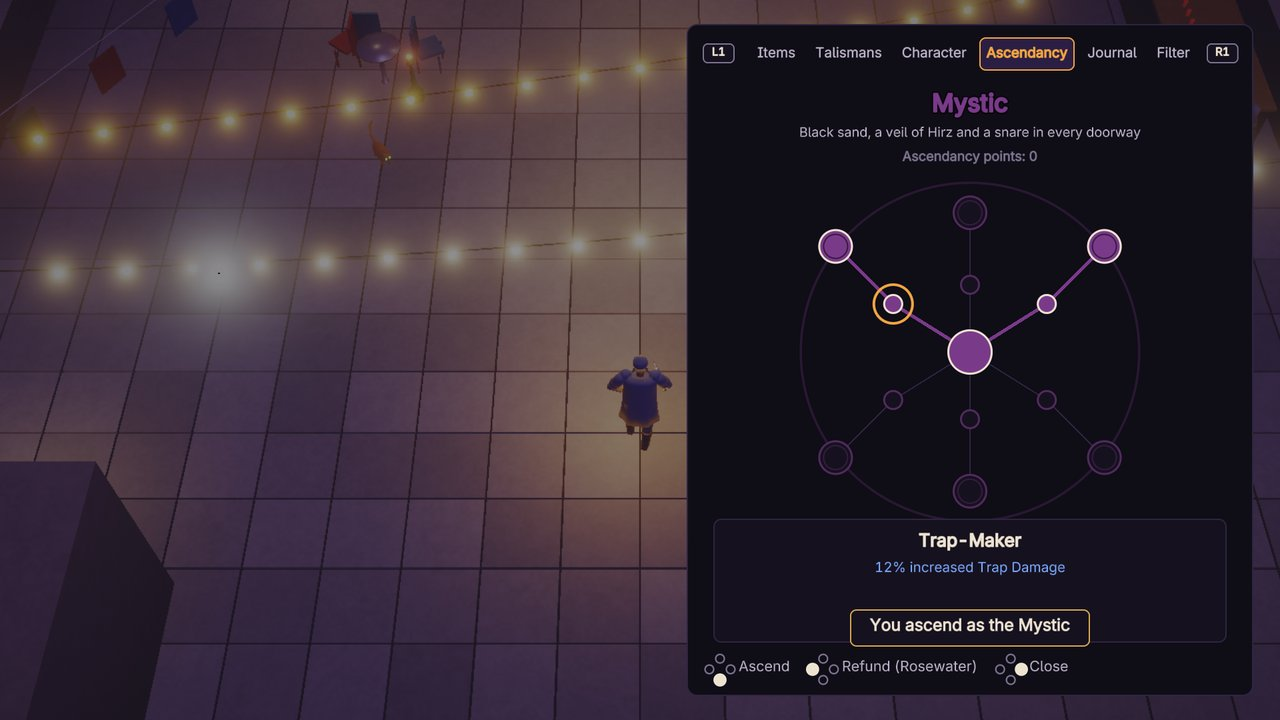
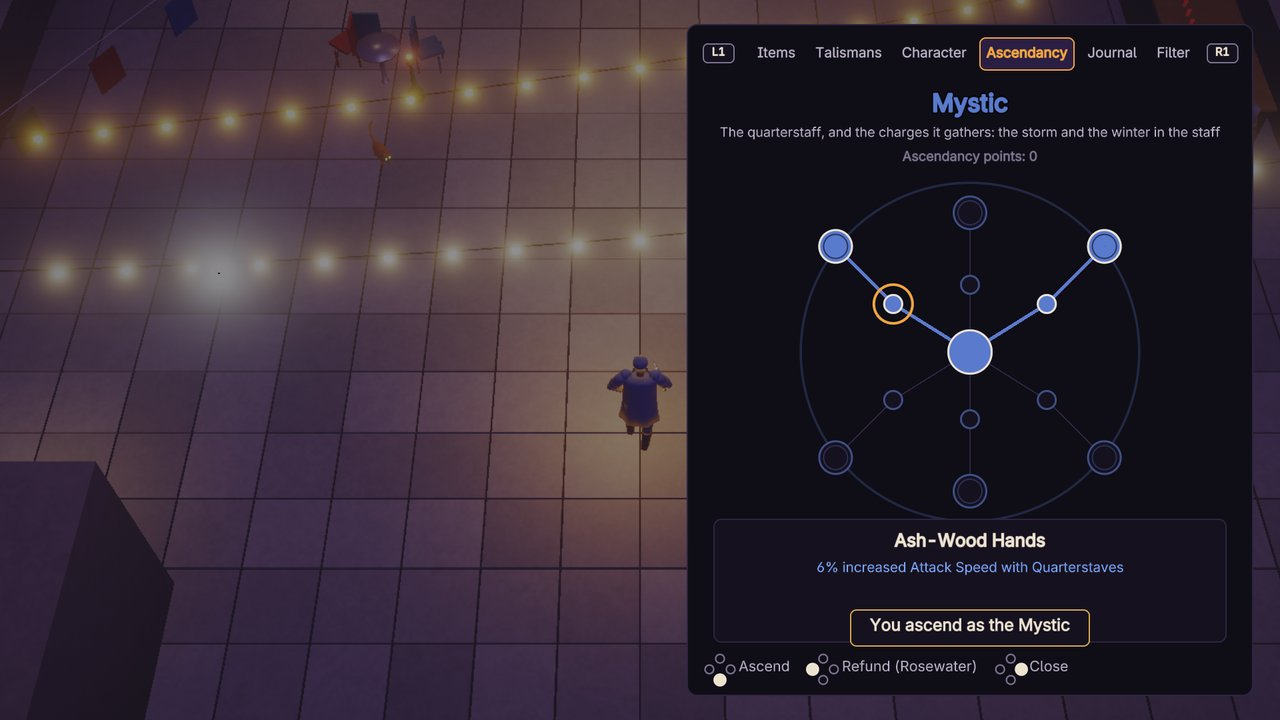
The Mystic is the quarterstaff's ascendancy, as the GDD has it
GDD §4 makes the Mystic the quarterstaff with lightning and cold charges,
and leaves traps to the Trapwright (not in the launch set). Its trap and
Wither nodes become the staff's: quarterstaff hits gain 8% of physical
damage as lightning and as cold for each Power Charge, a fourth Power
Charge, attack speed, reach and more damage with the staff. The Veil and
the chaos resistance stay. Bits 34 and 35 change meaning; nothing outside
this branch holds them. The docs and the ascendancy screenshot follow.

Claude-Session: https://claude.ai/code/session_01Mbhin9P5yzzeJ9fnzwwa5G

diff --git a/qahira/src/game/asc.cpp b/qahira/src/game/asc.cpp
@@ -168,27 +168,29 @@ const std::vector<Ascendancy>& ascendancies() {
              {"Thousand Cuts", true, 11, {-2.8f, -2.2f}, {M(S_ATTACK_SPEED, MK_INC, 8, T_DAGGER), M(S_DAMAGE, MK_MORE, 10, T_DAGGER)}, 0,
               {"8% increased Attack Speed with Daggers", "Daggers deal 10% more Damage"}},
          }},
-        {"mystic", "Mystic", "shadow", "Black sand, a veil of Hirz and a snare in every doorway", 0x7A3A8A,
+        {"mystic", "Mystic", "shadow", "The quarterstaff, and the charges it gathers: the storm and the winter in the staff", 0x5A7ACD,
          {
              {"Mystic", false, -1, {0, 0}, {}, 0, {}},
-             {"Trap-Maker", false, 0, {-1.6f, 1.0f}, {M(S_DAMAGE, MK_INC, 12, T_TRAP)}, 0, {"12% increased Trap Damage"}},
-             {"Black Tide", true, 1, {-2.8f, 2.2f}, {M(S_DAMAGE, MK_INC, 15, T_TRAP)}, KS_TRAP_WITHER,
-              {"Your Traps' bursts Wither the enemies they hit", "15% increased Trap Damage"}},
-             {"Spare Snare", false, 0, {0, 1.4f}, {M(S_AREA, MK_INC, 8, T_TRAP)}, 0, {"8% increased Area of Effect of Traps"}},
-             {"Thousand Snares", true, 3, {0, 2.9f}, {M(S_TRAP_THROW, MK_FLAT, 2), M(S_COOLDOWN_RECOVERY, MK_INC, 20, T_TRAP)}, 0,
-              {"You can have 2 more Traps set", "20% increased Cooldown Recovery Rate of Traps"}},
-             {"Dune Whisper", false, 0, {1.6f, 1.0f}, {M(S_DAMAGE, MK_INC, 12, T_CHAOS)}, 0, {"12% increased Chaos Damage"}},
-             {"Sand-Drift", true, 5, {2.8f, 2.2f}, {M(S_WITHER, MK_INC, 30)}, KS_DEEP_WITHER,
-              {"Chaos Spells add two stacks of Wither, which stacks 15 times", "30% increased Wither Duration"}},
+             {"Ash-Wood Hands", false, 0, {-1.6f, 1.0f}, {M(S_ATTACK_SPEED, MK_INC, 6, T_QSTAFF)}, 0,
+              {"6% increased Attack Speed with Quarterstaves"}},
+             {"Storm in the Staff", true, 1, {-2.8f, 2.2f}, {M(S_DAMAGE, MK_INC, 10, T_QSTAFF)}, KS_STAFF_STORM,
+              {"Quarterstaff Hits gain 8% of Physical Damage as extra Lightning", "for each Power Charge",
+               "10% increased Damage with Quarterstaves"}},
+             {"Charged Air", false, 0, {0, 1.4f}, {M(S_DAMAGE, MK_INC, 12, T_LIGHTNING)}, 0, {"12% increased Lightning Damage"}},
+             {"Thunder Charge", true, 3, {0, 2.9f}, {M(S_POWER, MK_FLAT, 1), M(S_CRIT_CHANCE, MK_INC, 15, T_QSTAFF)}, 0,
+              {"+1 to maximum Power Charges", "15% increased Critical Strike Chance with Quarterstaves"}},
+             {"Frost Grip", false, 0, {1.6f, 1.0f}, {M(S_DAMAGE, MK_INC, 12, T_COLD)}, 0, {"12% increased Cold Damage"}},
+             {"Winter Charge", true, 5, {2.8f, 2.2f}, {M(S_FREEZE, MK_INC, 20)}, KS_CHARGE_COLD,
+              {"Quarterstaff Hits gain 8% of Physical Damage as extra Cold", "for each Power Charge", "20% increased Freeze Buildup"}},
              {"Inner Hirz", false, 0, {1.6f, -1.0f}, {M(S_ES, MK_INC, 12)}, 0, {"12% increased maximum Hirz"}},
              {"The Veil", true, 7, {2.8f, -2.2f}, {M(S_ES, MK_INC, 15)}, KS_VEIL,
               {"Hirz starts to recharge twice as soon", "Kills restore 3% of your maximum Hirz", "15% increased maximum Hirz"}},
              {"Salt-Warded", false, 0, {0, -1.4f}, {M(S_CHAOS_RES, MK_FLAT, 12)}, 0, {"+12% to Chaos Resistance"}},
              {"Zar's Calm", true, 9, {0, -2.9f}, {M(S_CHAOS_RES, MK_FLAT, 15), M(S_LIFE, MK_INC, 6)}, 0,
               {"+15% to Chaos Resistance", "6% increased maximum Life"}},
-             {"Dark Lore", false, 0, {-1.6f, -1.0f}, {M(S_CAST_SPEED, MK_INC, 6)}, 0, {"6% increased Cast Speed"}},
-             {"Eclipse", true, 11, {-2.8f, -2.2f}, {M(S_CAST_SPEED, MK_INC, 8), M(S_DAMAGE, MK_MORE, 10, T_CHAOS)}, 0,
-              {"8% increased Cast Speed", "Chaos Skills deal 10% more Damage"}},
+             {"Long Reach", false, 0, {-1.6f, -1.0f}, {M(S_AREA, MK_INC, 8, T_QSTAFF)}, 0, {"8% increased Area of Effect with Quarterstaves"}},
+             {"Whirlwind", true, 11, {-2.8f, -2.2f}, {M(S_AREA, MK_INC, 10, T_QSTAFF), M(S_DAMAGE, MK_MORE, 15, T_QSTAFF)}, 0,
+              {"10% increased Area of Effect with Quarterstaves", "Quarterstaves deal 15% more Damage"}},
          }},
     };
     return a;

diff --git a/qahira/src/game/world.cpp b/qahira/src/game/world.cpp
@@ -1283,6 +1283,11 @@ float World::hit_enemy(Actor& e, const HeroHit& hh, vec2 from, float knock, floa
     if (e.mark_t > 0 && e.mark_hits > 0 && (sk_tags & T_ATTACK)) { he.crit_chance = 1.f; e.mark_hits--; }   // Marked: a sure crit
     if ((H.keystones & KS_LOW_CRIT) && e.life < e.life_max * 0.35f) he.crit_chance = 1.f;                    // Unseen Blade
     if ((H.keystones & KS_SINGLE) && e.rarity >= Rarity::Rare) k *= 1.25f;                                   // Single Combat
+    if ((sk_tags & T_QSTAFF) && H.power > 0) {   // the Mystic: the storm and the winter in the staff, by Power Charge
+        const float per = 0.08f * float(H.power);
+        for (auto [rule, dt] : {std::pair{KS_STAFF_STORM, DT_LIGHTNING}, std::pair{KS_CHARGE_COLD, DT_COLD}})
+            if (H.keystones & rule) { he.min[size_t(dt)] += he.min[DT_PHYS] * per; he.max[size_t(dt)] += he.max[DT_PHYS] * per; }
+    }
     if (H.keystones & KS_AGONY) k *= 0.7f;                                                                    // al-Sharatan: hits deal less...
     for (int t = 0; t < DT_COUNT; t++) { he.min[size_t(t)] *= k; he.max[size_t(t)] *= k; }
     Defences def;
@@ -1354,10 +1359,8 @@ float World::hit_enemy(Actor& e, const HeroHit& hh, vec2 from, float knock, floa
     // poison: a stack of chaos over two seconds, from the physical and chaos damage of the hit
     float pc = res.by_type[DT_PHYS] + res.by_type[DT_CHAOS];
     const bool dagger_crit = res.crit && (sk_tags & T_DAGGER);   // a dagger's crits always poison
-    const bool chaos_spell = (sk_tags & T_SPELL) && (sk_tags & T_CHAOS);
-    if (chaos_spell || ((sk_tags & T_TRAP) && (H.keystones & KS_TRAP_WITHER))) {   // Black Sand (Black Tide: traps too)
-        const bool deep = H.keystones & KS_DEEP_WITHER;                               // Sand-Drift
-        e.wither = std::min(deep ? 15 : 10, e.wither + (deep && chaos_spell ? 2 : 1));
+    if ((sk_tags & T_SPELL) && (sk_tags & T_CHAOS)) {   // Black Sand: a stack of Wither
+        e.wither = std::min(10, e.wither + 1);
         e.wither_t = 4.f * H.stats.sum(S_WITHER).apply(1.f);
     }
     if (pc > 0 && (dagger_crit || (hh.poison > 0 && rng.chance(hh.poison)))) {

diff --git a/qahira/tests/test_shadow.cpp b/qahira/tests/test_shadow.cpp
@@ -175,24 +175,25 @@ TEST(the_nightblade_and_the_mystic) {
     m.life = 3.f;   // and a crit that kills gives a Power Charge
     w.hit_enemy(m, hh, {0, 0}, 0);
     CHECK(!m.alive() && w.hero.power == before + 1);
-    // the Mystic: trap bursts Wither, and chaos spells add two stacks up to fifteen
+    // the Mystic: a quarterstaff's hits gain lightning and cold for each Power Charge
     World v;
     v.reset_hero("shadow");
     v.hero.ascendancy = int8_t(find_ascendancy("mystic"));
     v.hero.asc = (1u << 1) | (1u << 2) | (1u << 5) | (1u << 6);
     v.recompute_hero();
-    CHECK((v.hero.keystones & KS_TRAP_WITHER) && (v.hero.keystones & KS_DEEP_WITHER));
+    CHECK((v.hero.keystones & KS_STAFF_STORM) && (v.hero.keystones & KS_CHARGE_COLD));
     v.spawn_monster(find_monster("ghoul"), {0, 2}, Rarity::Normal, 5);
     Actor& n = v.actors.back();
     n.life = n.life_max = 1e6f;
-    HeroHit tr;
-    tr.hit.min[DT_LIGHTNING] = tr.hit.max[DT_LIGHTNING] = 5;
-    tr.talisman = 1;   // Snare of Sparks
-    v.hit_enemy(n, tr, {0, 0}, 0);
-    CHECK(n.wither == 1);
-    tr.talisman = 2;   // Black Sand
-    for (int k = 0; k < 10; k++) v.hit_enemy(n, tr, {0, 0}, 0);
-    CHECK(n.wither == 15);
+    n.armour = 0;
+    HeroHit st;
+    st.hit.min[DT_PHYS] = st.hit.max[DT_PHYS] = 100;
+    st.hit.crit_chance = 0.f;
+    st.talisman = 3;   // Whirling Staff
+    const float bare = v.hit_enemy(n, st, {0, 0}, 0);
+    v.hero.power = 2;
+    const float charged = v.hit_enemy(n, st, {0, 0}, 0);
+    CHECK(charged > bare * 1.2f && n.chill_t > 0);   // 16% as lightning and 16% as cold (less the ghoul's resistances), and a chill
 }
 
 TEST(a_save_state_v11_keeps_power_and_wither) {

diff --git a/qahira/src/game/asc.hpp b/qahira/src/game/asc.hpp
@@ -40,8 +40,8 @@ enum AscRule : uint64_t {
     // Slice 8: the Shadow's Nightblade and Mystic
     KS_LOW_CRIT = 1ull << 32,      // hits against enemies on low life are Critical Strikes
     KS_POWER_KILL = 1ull << 33,    // killing with a Critical Strike grants a Power Charge
-    KS_TRAP_WITHER = 1ull << 34,   // trap bursts Wither
-    KS_DEEP_WITHER = 1ull << 35,   // chaos spells add two stacks of Wither; Wither stacks to 15
+    KS_STAFF_STORM = 1ull << 34,   // quarterstaff hits gain lightning for each Power Charge
+    KS_CHARGE_COLD = 1ull << 35,   // quarterstaff hits gain cold for each Power Charge
     KS_VEIL = 1ull << 36,          // Hirz recharges sooner, and kills restore some of it
 };
 

diff --git a/qahira/docs/SLICES.md b/qahira/docs/SLICES.md
@@ -626,8 +626,10 @@ what each slice actually delivered and how it was verified.
 - **Two ascendancies for the Shadow**, chosen at the First Trial:
   - **Nightblade:** hits on an enemy below 35% of its life are crits, a crit that kills grants a Power Charge, a
     fourth Power Charge, poison and dagger speed;
-  - **Mystic:** trap bursts Wither, chaos spells add two stacks of Wither up to fifteen, two more traps, a Hirz that
-    recharges twice as soon and comes back on a kill, chaos resistance and cast speed.
+  - **Mystic** (as GDD §4 has it: the quarterstaff and its charges): quarterstaff hits gain 8% of their physical damage
+    as lightning, and 8% as cold, for each Power Charge; a fourth Power Charge; a Hirz that recharges twice as soon and
+    comes back on a kill; chaos resistance; and the staff's reach and damage. Traps belong to the Trapwright, the
+    third ascendancy, which is not in the launch set.
 - **Act IV, the Maghreb Coast** (`game/acts.cpp`), levels 36 to 46, six zones on four new regions
   (`tools/art/env/regions4.py`; no mosque stands in any of them):
   - **Ghadames, the Covered City** (whitewashed houses with triangular crenellations, lanes roofed with palm beams);
@@ -670,7 +672,7 @@ what each slice actually delivered and how it was verified.
 
 | Check | Result |
 |---|---|
-| Unit tests (`qtests`) | pass, 62 cases (11 new: the Shadow's quarterstaff on the back and the swap both ways; a trap landing, arming, bursting, and the oldest going; Black Sand's Wither, its 60% at ten stacks and on poison, its fading; quarterstaff crits and Power Charges, a dagger crit's poison; al-Sharatan's 30% less and its crit poison; the Nightblade and Mystic's rules; save state v11; Act IV's road; a Zar Night's rhythm, waves in sight of the circle, trance, payout and save state; a failed night paying nothing; Zar Nights only after Act IV) |
+| Unit tests (`qtests`) | pass, 62 cases (11 new: the Shadow's quarterstaff on the back and the swap both ways; a trap landing, arming, bursting, and the oldest going; Black Sand's Wither, its 60% at ten stacks and on poison, its fading; quarterstaff crits and Power Charges, a dagger crit's poison; al-Sharatan's 30% less and its crit poison; the Nightblade's crits on the wounded and its Power Charge on a killing crit, the Mystic's lightning and cold by Power Charge; save state v11; Act IV's road; a Zar Night's rhythm, waves in sight of the circle, trance, payout and save state; a failed night paying nothing; Zar Nights only after Act IV) |
 | `act4` bot (the exit): a character as Act III leaves one plays Act IV through, Ghadames to the Sebkha of Sijoumi | pass: the Warrior in 11.2 minutes (level 34 to 42, 0 deaths, 296 kills), the Shadow in 17.0 (4 deaths), the Mercenary 12.0 (2), the Sorcerer 7.0 (0), the Ranger 8.5 (0) |
 | `zar` bot (the endgame piece): after Act IV, a chart with a Zar Night; the drum sat at, the circle held, a trance, the pay-out picked up | pass: al-Iskandariya, 1 trance, 21 kills in the circle, the rhythm failing near the end; 1.6 minutes, 0 deaths |
 | The Shadow through the earlier acts | `zone` pass; `act1` pass (37.0 minutes, 11 deaths, most of them to bosses); `act2` pass (14.7 minutes, 0 deaths); `act3` pass (16.2 minutes, 5 deaths) |

diff --git a/qahira/docs/ENGINE.md b/qahira/docs/ENGINE.md
@@ -345,9 +345,9 @@ each (Bab Zuweila is Trial I). Notables carry mods and rules (`AscRule`, alongsi
   two points.
 
 - **Nightblade** and **Mystic** (Shadow, Slice 8), rules from bit 32 of the 64-bit mask: hits on an enemy below 35%
-  of its life are crits (`KS_LOW_CRIT`), a crit that kills gives a Power Charge (`KS_POWER_KILL`); trap bursts Wither
-  (`KS_TRAP_WITHER`), chaos spells add two stacks up to fifteen (`KS_DEEP_WITHER`), and Hirz recharges twice as soon
-  with 3% back on a kill (`KS_VEIL`). The Shadow's keystone in the sky, **al-Sharatan** (`KS_AGONY`, tree bit 4):
+  of its life are crits (`KS_LOW_CRIT`), a crit that kills gives a Power Charge (`KS_POWER_KILL`); quarterstaff hits
+  gain 8% of their physical damage as lightning (`KS_STAFF_STORM`) and as cold (`KS_CHARGE_COLD`) per Power Charge,
+  and Hirz recharges twice as soon with 3% back on a kill (`KS_VEIL`). The Shadow's keystone in the sky, **al-Sharatan** (`KS_AGONY`, tree bit 4):
   hits deal 30% less, and a crit's poison is multiplied by the crit multiplier.
 
 A node needs its parent; a refund costs a Rosewater Vial.
